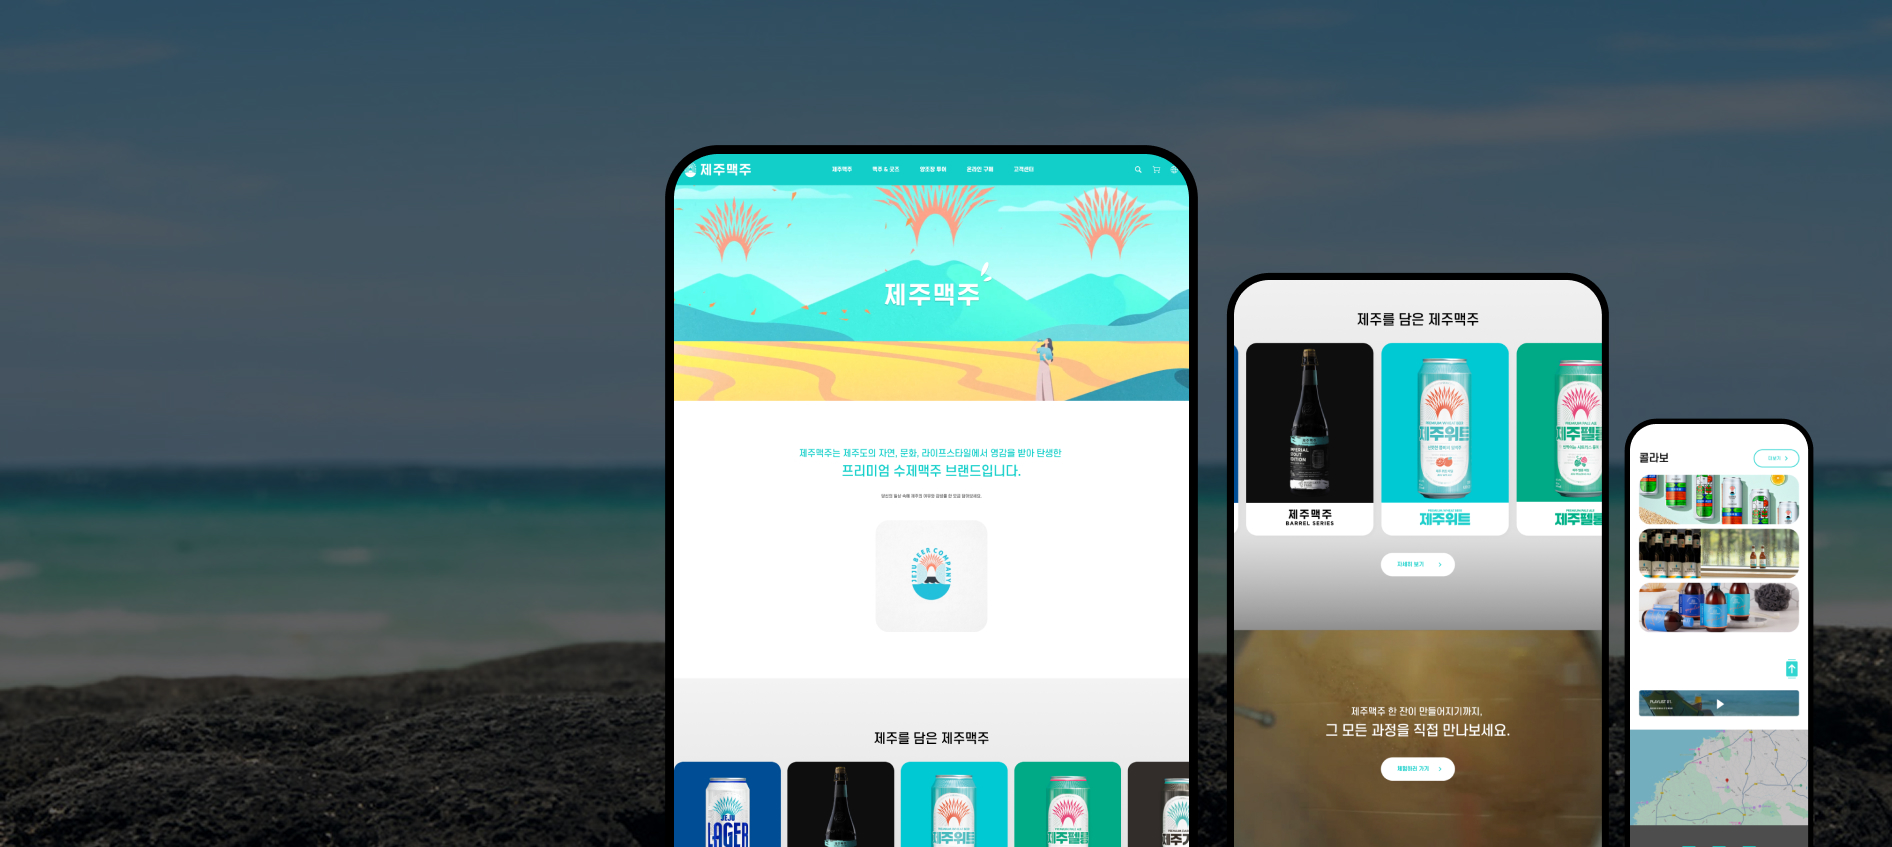
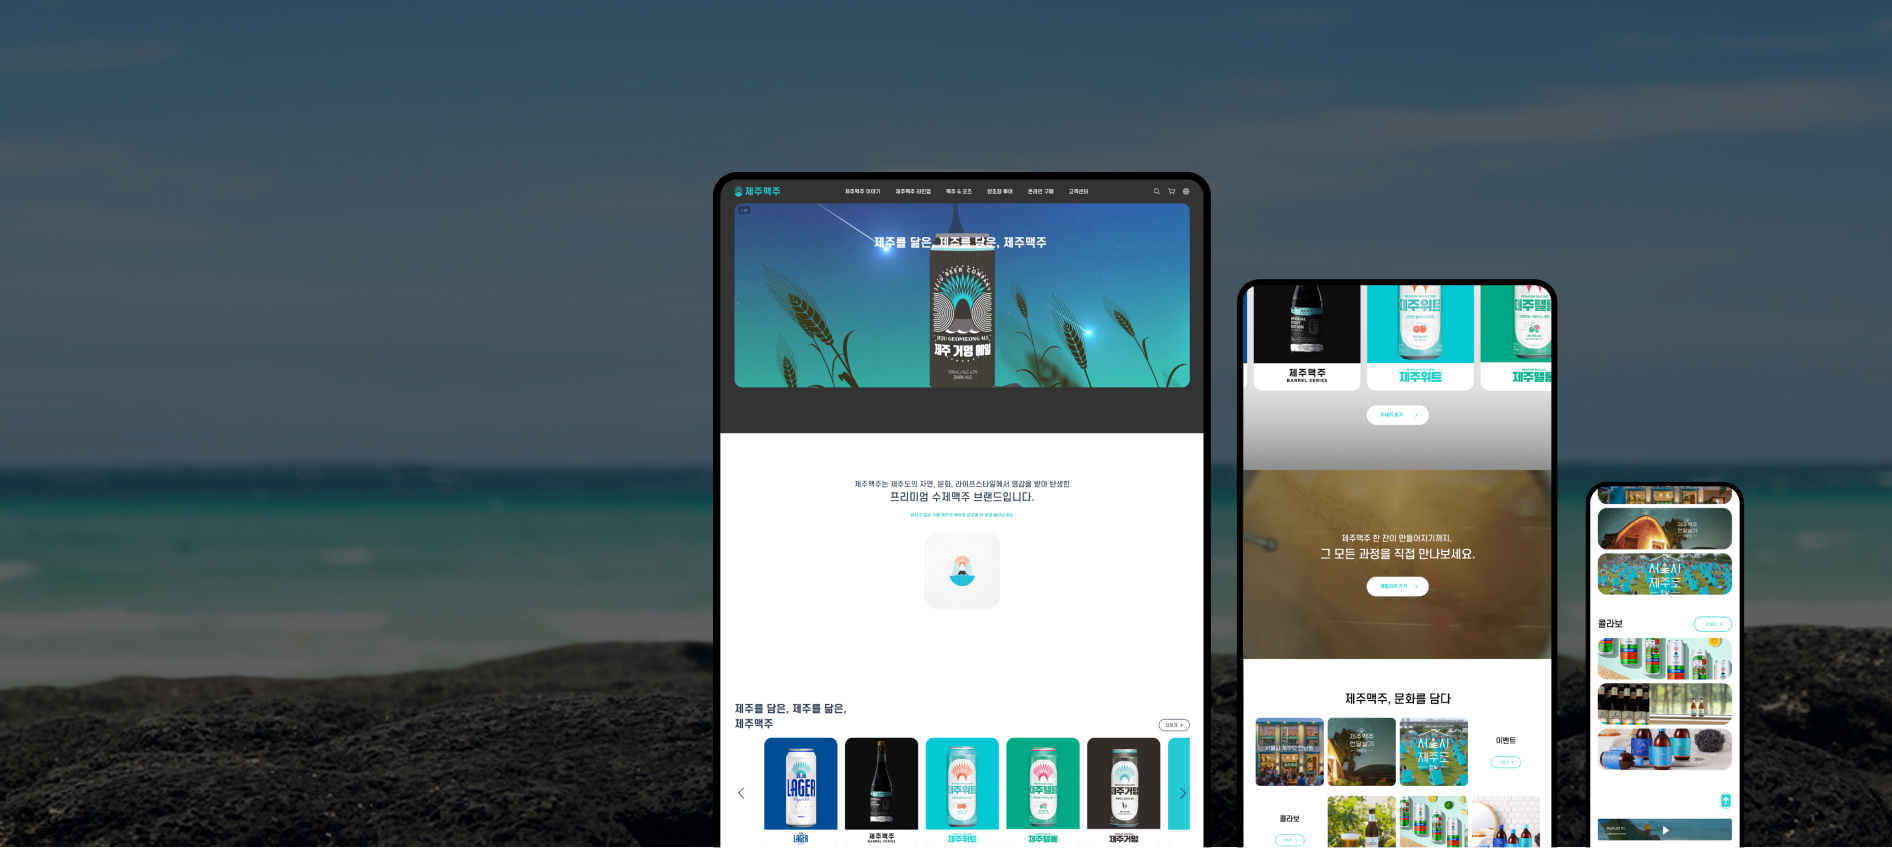
제주맥주랜딩넣음

diff --git a/index.html b/index.html
@@ -599,7 +599,13 @@
                           >Plus</a
                         >
                       </div>
-                      <a href="">
+                      <a
+                        href="#"
+                        onclick="
+                          openUiuxModal('./img/landing-jeju.jpg');
+                          return false;
+                        "
+                      >
                         <figure class="mockup">
                           <img
                             src="./img/uiux-jeju-mockup.jpg"
